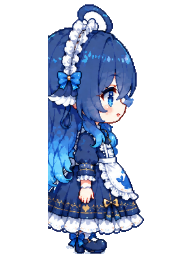
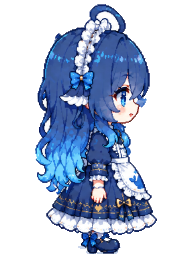
feat: 修复侧面抠图背侧缺块 + 生图进度条 LoadBar
- extract_side.py：窗口右界 620→685（垂发实际延伸到 x≈670，之前被窗口直切出背侧缺口）
- 新资产 ui/loadbar-track.png：gen.py pixel-art 出图（棋盘格假透明 → 抠灰 → 最大连通块
  → ÷3 NEAREST = 360x40），tools/make_loadbar_asset.py 留档
- scripts/ui/load_bar.gd：LoadBar = track 贴图 ×2 + 引擎画填充（四顶点渐变 + 前沿亮线 + 顶部高光）
- loadrun 接 LoadBar；smoke 169 全绿

diff --git a/tools/make_loadbar_asset.py b/tools/make_loadbar_asset.py
@@ -1,0 +1,99 @@
+#!/usr/bin/env python3
+# -*- coding: utf-8 -*-
+"""make_loadbar_asset.py — 把生图的进度条加工成游戏资产。
+
+输入:  D:/zcode-work/pictures/output/2026-10-23-ui-loadbar-v1.png（1248x832，
+       背景是被烘进图里的棋盘格假透明）
+输出:  assets/art/ui/loadbar-track.png（×2 显示，NEAREST 整数降采样）
+打印:  画布尺寸、棋盘格剔除数、内槽（fill inset）边距——照抄进 load_bar.gd
+"""
+import os
+
+import numpy as np
+from PIL import Image
+
+SRC = r"D:/zcode-work/pictures/output/2026-10-23-ui-loadbar-v1.png"
+ROOT = r"D:/zcode-work/godot/projects/prompt-arena"
+DST = os.path.join(ROOT, "assets", "art", "ui", "loadbar-track.png")
+DISPLAY_SCALE = 2
+
+im = Image.open(SRC).convert("RGBA")
+a = np.asarray(im).astype(np.int16)
+r, g, b = a[:, :, 0], a[:, :, 1], a[:, :, 2]
+
+# ── 棋盘格剔除：两种浅灰方格都是 r≈g≈b 的高亮灰；条上没有中性灰
+#    （青/紫/深蓝都有明显色偏，淡薄荷高光 #D8FBFF 的 r-g=35 不会被误伤）──
+gray = (np.abs(r - g) < 7) & (np.abs(g - b) < 7) & (r > 185)
+alpha = a[:, :, 3].copy()
+alpha[gray] = 0
+print(f"棋盘格剔除 {int(gray.sum())} px")
+a[:, :, 3] = alpha
+
+# ── 只留最大连通块（甩掉噪点/残渣）──
+from collections import deque
+solid = alpha > 8
+seen = np.zeros_like(solid, dtype=bool)
+best = []
+Hh, Ww = solid.shape
+ys0, xs0 = np.where(solid)
+for sy, sx in zip(ys0, xs0):
+    if seen[sy, sx]:
+        continue
+    q = deque([(sy, sx)])
+    seen[sy, sx] = True
+    comp = []
+    while q:
+        y, x = q.popleft()
+        comp.append((y, x))
+        for dy, dx in ((1, 0), (-1, 0), (0, 1), (0, -1)):
+            ny, nx = y + dy, x + dx
+            if 0 <= ny < Hh and 0 <= nx < Ww and solid[ny, nx] and not seen[ny, nx]:
+                seen[ny, nx] = True
+                q.append((ny, nx))
+    if len(comp) > len(best):
+        best = comp
+keep = np.zeros_like(solid)
+if best:
+    cy = np.array(best)
+    keep[cy[:, 0], cy[:, 1]] = True
+print(f"连通块: 最大 {len(best)} px，总实心 {int(solid.sum())} px，丢弃 {int(solid.sum()) - len(best)} px")
+alpha = alpha * keep.astype(np.uint8) * 255 // 255 * keep  # 仅保留最大块
+alpha[~keep] = 0
+a[:, :, 3] = alpha
+
+out = Image.fromarray(a.astype(np.uint8))
+bb = out.getbbox()
+out = out.crop(bb)
+w, h = out.size
+print(f"裁剪后包围盒: {w}x{h}")
+
+# ── 整数 NEAREST 降采样：因子 3（美术像素 ~5-6px 源，÷3 后 1-2px）──
+FACTOR = 3
+nw, nh = w // FACTOR, h // FACTOR
+out = out.resize((nw, nh), Image.NEAREST)
+# alpha 硬化
+al = out.getchannel("A").point(lambda v: 255 if v >= 110 else 0)
+out.putalpha(al)
+os.makedirs(os.path.dirname(DST), exist_ok=True)
+out.save(DST)
+print(f"资产: {nw}x{nh} → 游戏内 {nw*DISPLAY_SCALE}x{nh*DISPLAY_SCALE}（×{DISPLAY_SCALE} 显示）")
+
+# ── 量内槽：扫中间一行，从左/右找「深蓝内槽」的起止（rim 是亮青，内槽是暗蓝）──
+mid = np.asarray(out)[:, nh // 2, :3].astype(np.int16)
+dark = (mid[:, 0] < 90) & (mid[:, 2] > 40)   # 深蓝：r 低 b 中高
+xs = np.where(dark)[0]
+inset_l, inset_r = (int(xs.min()), int(nw - 1 - xs.max())) if len(xs) else (0, 0)
+# 上下：扫中间一列
+midc = np.asarray(out)[:, nw // 2, :3].astype(np.int16)
+darkc = (midc[:, 0] < 90) & (midc[:, 2] > 40)
+ys = np.where(darkc)[0]
+inset_t, inset_b = (int(ys.min()), int(nh - 1 - ys.max())) if len(ys) else (0, 0)
+print(f"内槽 inset（资产 px，×2 = 显示 px）: 左{inset_l} 右{inset_r} 上{inset_t} 下{inset_b}")
+print(f"  → 显示: 左{inset_l*DISPLAY_SCALE} 右{inset_r*DISPLAY_SCALE} 上{inset_t*DISPLAY_SCALE} 下{inset_b*DISPLAY_SCALE}")
+
+# 预览
+pv = Image.new("RGB", (nw * 3, nh * 3), (16, 20, 31))
+big = out.resize((nw * 3, nh * 3), Image.NEAREST)
+pv.paste(big, (0, 0), big)
+pv.save(r"D:/tmp/loadbar-asset-preview.png")
+print("预览: D:/tmp/loadbar-asset-preview.png")

diff --git a/tools/extract_side.py b/tools/extract_side.py
@@ -74,7 +74,9 @@ for x in range(W):
     char[zone, x] &= ~shadow_like[zone, x]
 
 # ── 侧窗内取最大连通块，甩掉文字碎片 ──
-x0w, x1w = 360, 620
+## 窗口右界必须是 685：侧面垂发实际延伸到 x≈670，之前用 620 把背侧切出了直边缺口；
+## 680..700 是侧面与背面两图之间的空白间隙
+x0w, x1w = 360, 685
 win = char[:, x0w:x1w]
 seen = np.zeros_like(win, dtype=bool)
 best = None
